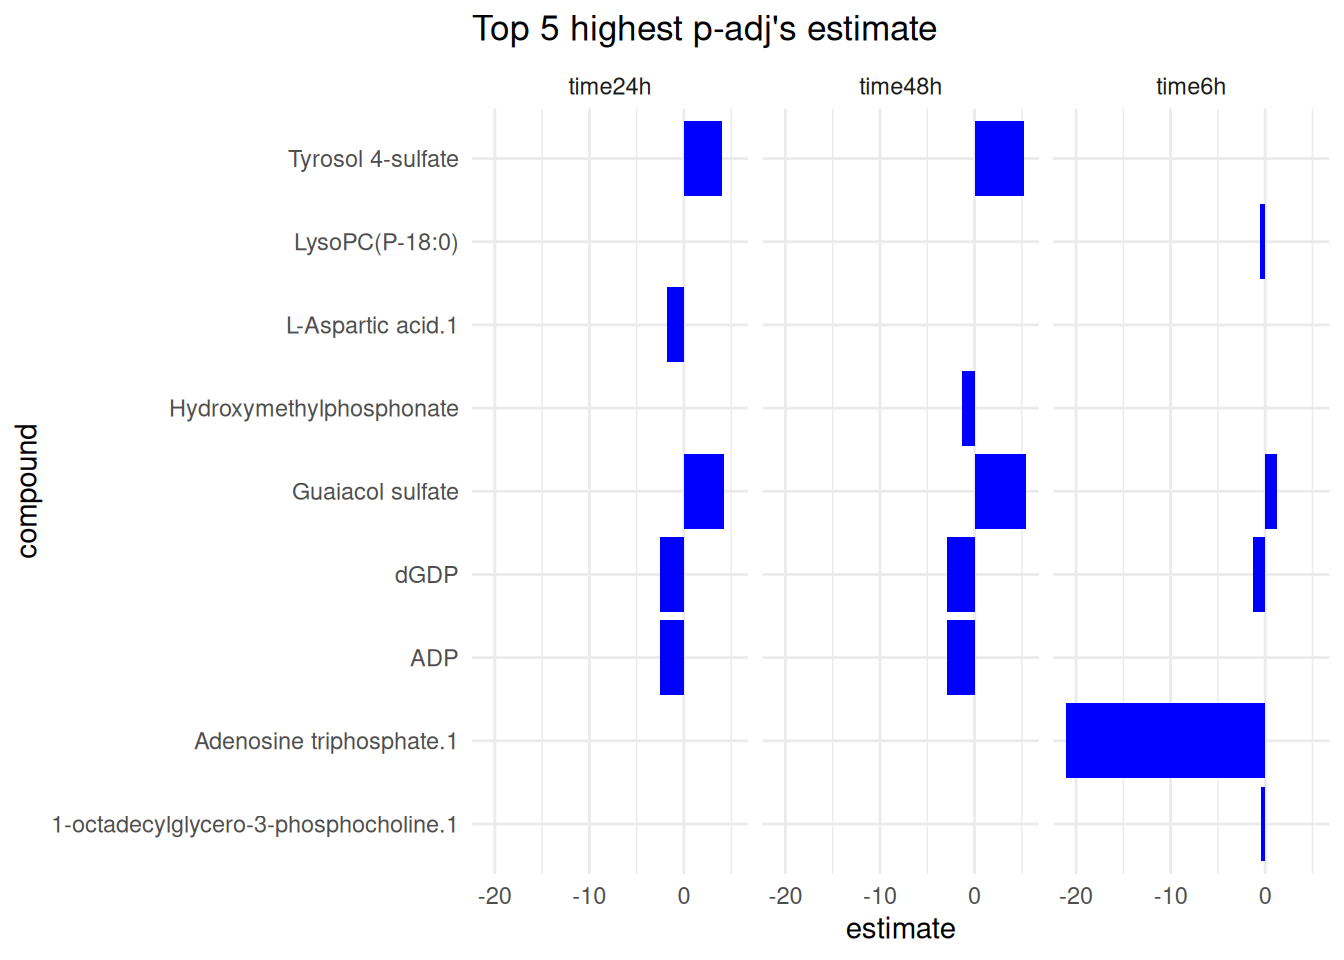
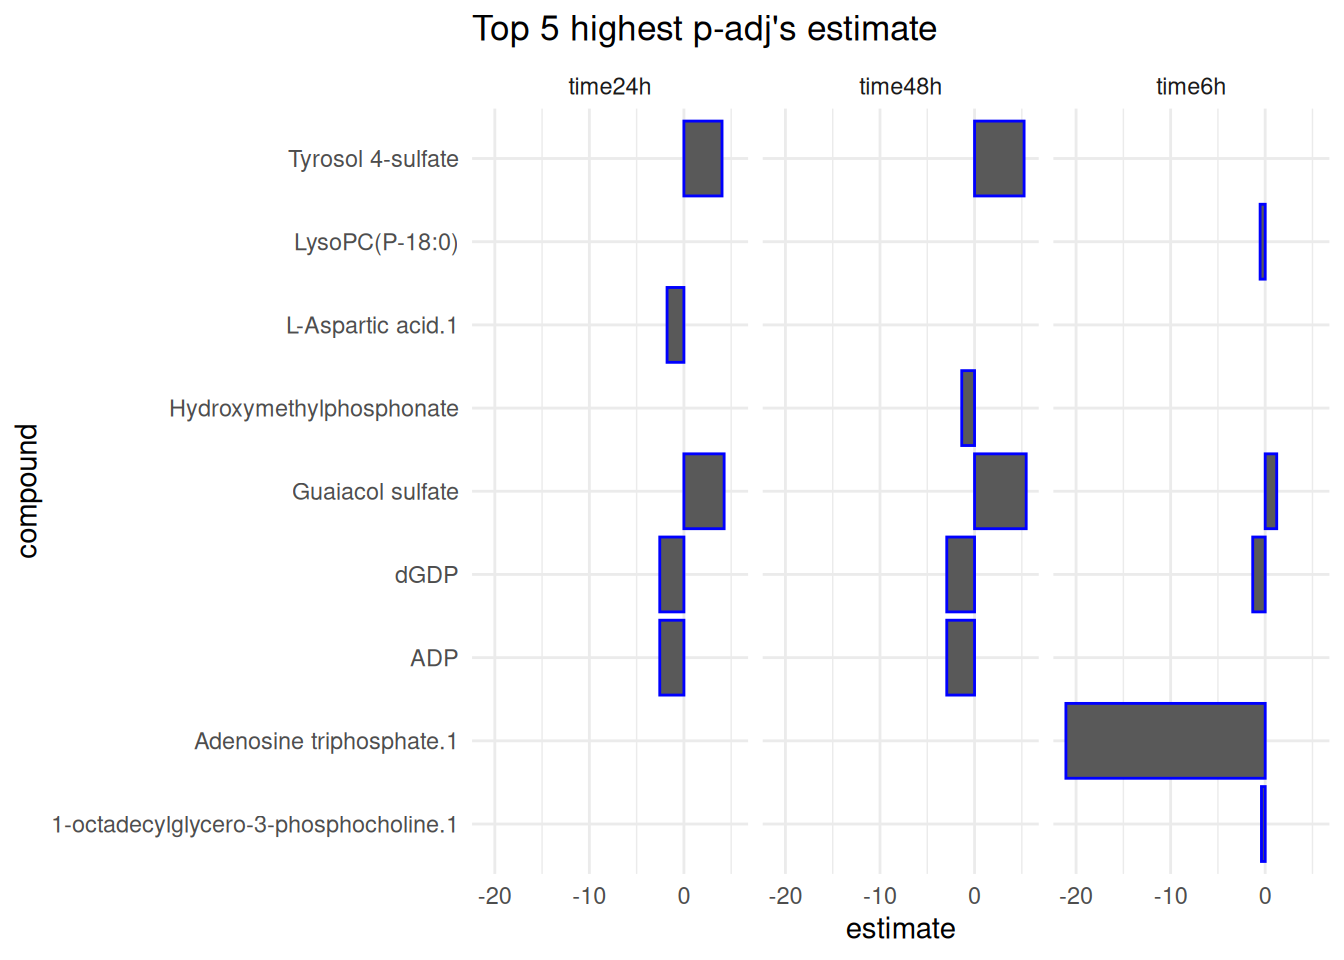
Built site for gh-pages

diff --git a/projects/Class_presentation.html b/projects/Class_presentation.html
@@ -158,6 +158,7 @@ pre > code.sourceCode > span > a:first-child::before { text-decoration: underlin
   <li><a href="#prep-the-data" id="toc-prep-the-data" class="nav-link" data-scroll-target="#prep-the-data">Prep the Data</a></li>
   <li><a href="#visualization-of-pca-plot" id="toc-visualization-of-pca-plot" class="nav-link" data-scroll-target="#visualization-of-pca-plot">Visualization of PCA plot</a></li>
   <li><a href="#volcano-plot" id="toc-volcano-plot" class="nav-link" data-scroll-target="#volcano-plot">Volcano Plot</a></li>
+  <li><a href="#top-5-highest-p.adjust-value-compound" id="toc-top-5-highest-p.adjust-value-compound" class="nav-link" data-scroll-target="#top-5-highest-p.adjust-value-compound">Top 5 highest p.adjust value compound</a></li>
   <li><a href="#take-a-look-individual-compound" id="toc-take-a-look-individual-compound" class="nav-link" data-scroll-target="#take-a-look-individual-compound">Take a look individual compound</a></li>
   </ul>
 </nav>
@@ -473,6 +474,9 @@ pre > code.sourceCode > span > a:first-child::before { text-decoration: underlin
 </div>
 </div>
 </div>
+</section>
+<section id="top-5-highest-p.adjust-value-compound" class="level2">
+<h2 class="anchored" data-anchor-id="top-5-highest-p.adjust-value-compound">Top 5 highest p.adjust value compound</h2>
 <div class="cell">
 <div class="sourceCode cell-code" id="cb29"><pre class="sourceCode r code-with-copy"><code class="sourceCode r"><span id="cb29-1"><a href="#cb29-1" aria-hidden="true" tabindex="-1"></a>top5_padj <span class="ot">&lt;-</span> planStats <span class="sc">%&gt;%</span></span>
 <span id="cb29-2"><a href="#cb29-2" aria-hidden="true" tabindex="-1"></a>  <span class="fu">group_by</span>(term) <span class="sc">%&gt;%</span> </span>
@@ -495,7 +499,7 @@ pre > code.sourceCode > span > a:first-child::before { text-decoration: underlin
 <div class="sourceCode cell-code" id="cb31"><pre class="sourceCode r code-with-copy"><code class="sourceCode r"><span id="cb31-1"><a href="#cb31-1" aria-hidden="true" tabindex="-1"></a>top5_padj <span class="sc">%&gt;%</span> </span>
 <span id="cb31-2"><a href="#cb31-2" aria-hidden="true" tabindex="-1"></a>  <span class="fu">filter</span>(estimate <span class="sc">!=</span> <span class="dv">0</span>) <span class="sc">%&gt;%</span> </span>
 <span id="cb31-3"><a href="#cb31-3" aria-hidden="true" tabindex="-1"></a>  <span class="fu">ggplot</span>(<span class="fu">aes</span>(<span class="at">x=</span> compound, <span class="at">y =</span> estimate)) <span class="sc">+</span></span>
-<span id="cb31-4"><a href="#cb31-4" aria-hidden="true" tabindex="-1"></a>  <span class="fu">geom_bar</span>(<span class="at">stat =</span> <span class="st">"identity"</span>, <span class="at">fill =</span> <span class="st">"blue"</span>) <span class="sc">+</span></span>
+<span id="cb31-4"><a href="#cb31-4" aria-hidden="true" tabindex="-1"></a>  <span class="fu">geom_bar</span>(<span class="at">stat =</span> <span class="st">"identity"</span>, <span class="at">color =</span> <span class="st">"blue"</span>) <span class="sc">+</span></span>
 <span id="cb31-5"><a href="#cb31-5" aria-hidden="true" tabindex="-1"></a>  <span class="fu">labs</span>(<span class="at">title =</span> <span class="st">"Top 5 highest p-adj's estimate"</span>, <span class="at">x =</span> <span class="st">"compound"</span>, <span class="at">y =</span> <span class="st">"estimate"</span>) <span class="sc">+</span> <span class="fu">theme_minimal</span>() <span class="sc">+</span> <span class="fu">facet_grid</span>(<span class="sc">~</span>term) <span class="sc">+</span> <span class="fu">coord_flip</span>()</span></code><button title="Copy to Clipboard" class="code-copy-button"><i class="bi"></i></button></pre></div>
 <div class="cell-output-display">
 <div>

diff --git a/projects.html b/projects.html
@@ -224,7 +224,7 @@ Author
 </thead>
 <tbody class="list">
 
-<tr data-index="0" data-listing-date-sort="1753315200000" data-listing-file-modified-sort="1753371976900" data-listing-date-modified-sort="NaN" data-listing-reading-time-sort="5" data-listing-word-count-sort="807" data-listing-title-sort="LC-MS data" data-listing-filename-sort="Class_presentation.qmd">
+<tr data-index="0" data-listing-date-sort="1753315200000" data-listing-file-modified-sort="1753372886412" data-listing-date-modified-sort="NaN" data-listing-reading-time-sort="5" data-listing-word-count-sort="813" data-listing-title-sort="LC-MS data" data-listing-filename-sort="Class_presentation.qmd">
 <td>
 <span class="listing-date">07-24-2025</span>
 </td>
@@ -237,7 +237,7 @@ Author
 
 </tr>
 
-<tr data-index="1" data-listing-file-modified-sort="1753371976906" data-listing-reading-time-sort="1" data-listing-word-count-sort="1" data-listing-title-sort="number 2" data-listing-filename-sort="number 2.qmd">
+<tr data-index="1" data-listing-file-modified-sort="1753372886418" data-listing-reading-time-sort="1" data-listing-word-count-sort="1" data-listing-title-sort="number 2" data-listing-filename-sort="number 2.qmd">
 <td>
 <span class="listing-date">&nbsp;</span>
 </td>
